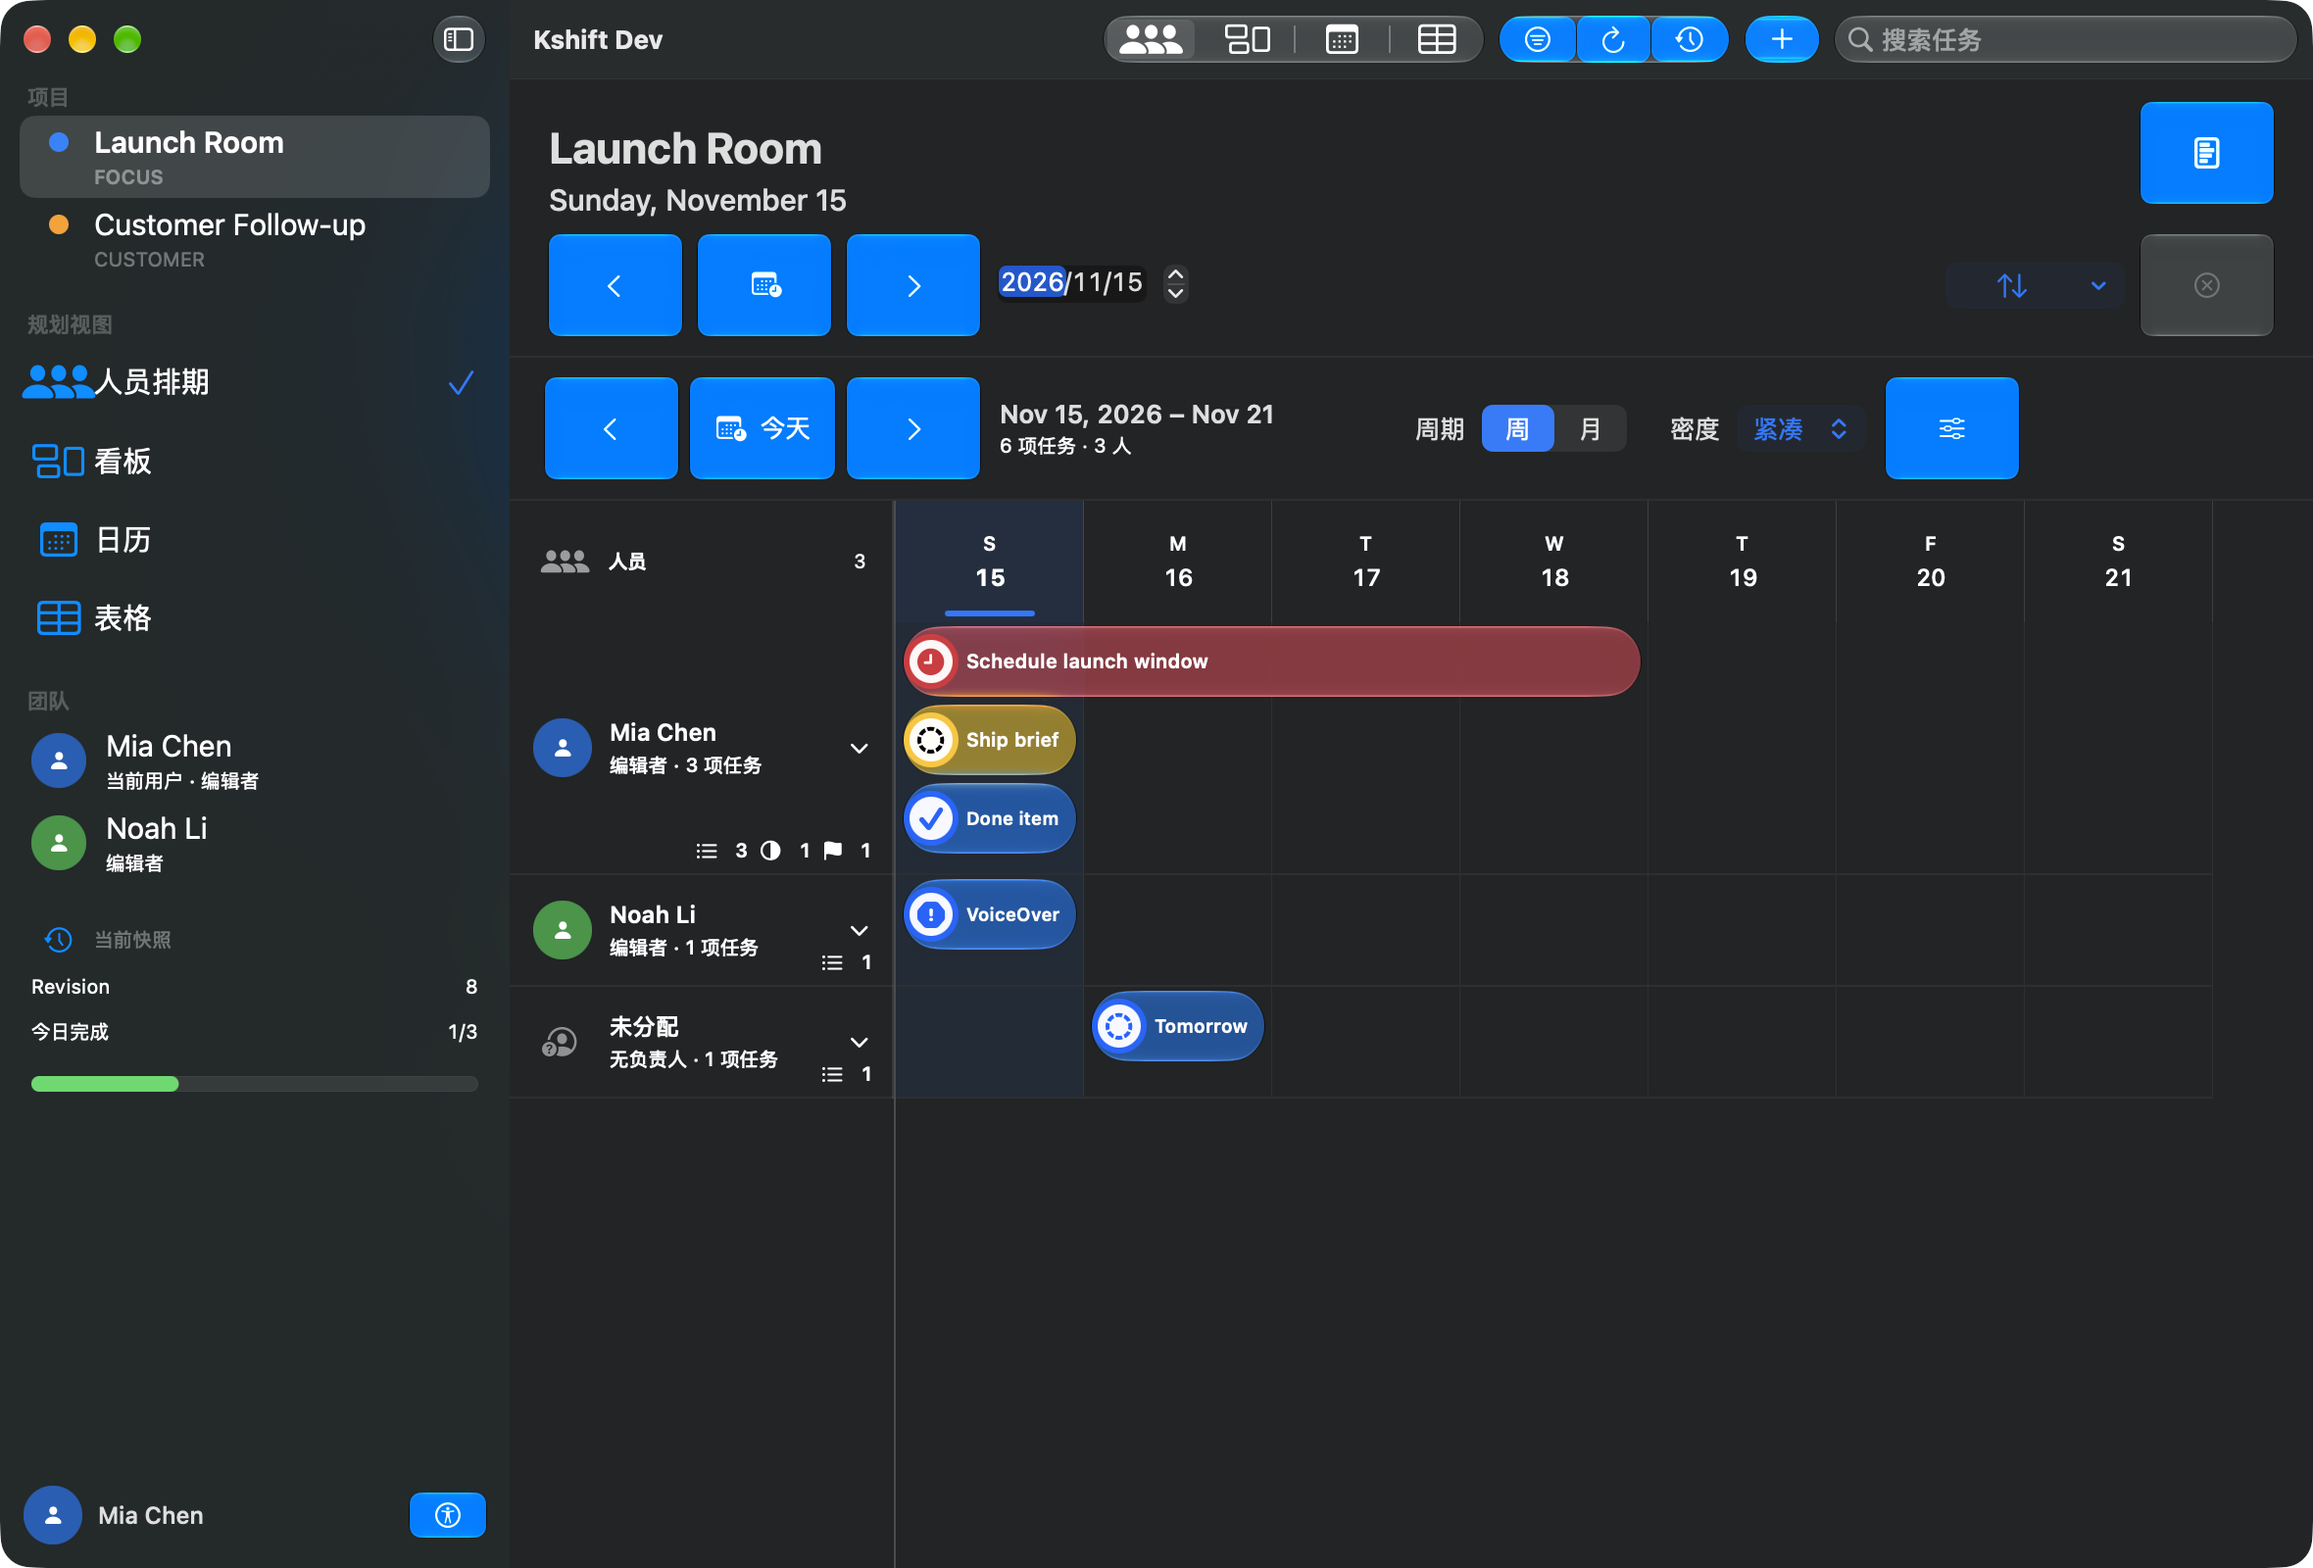
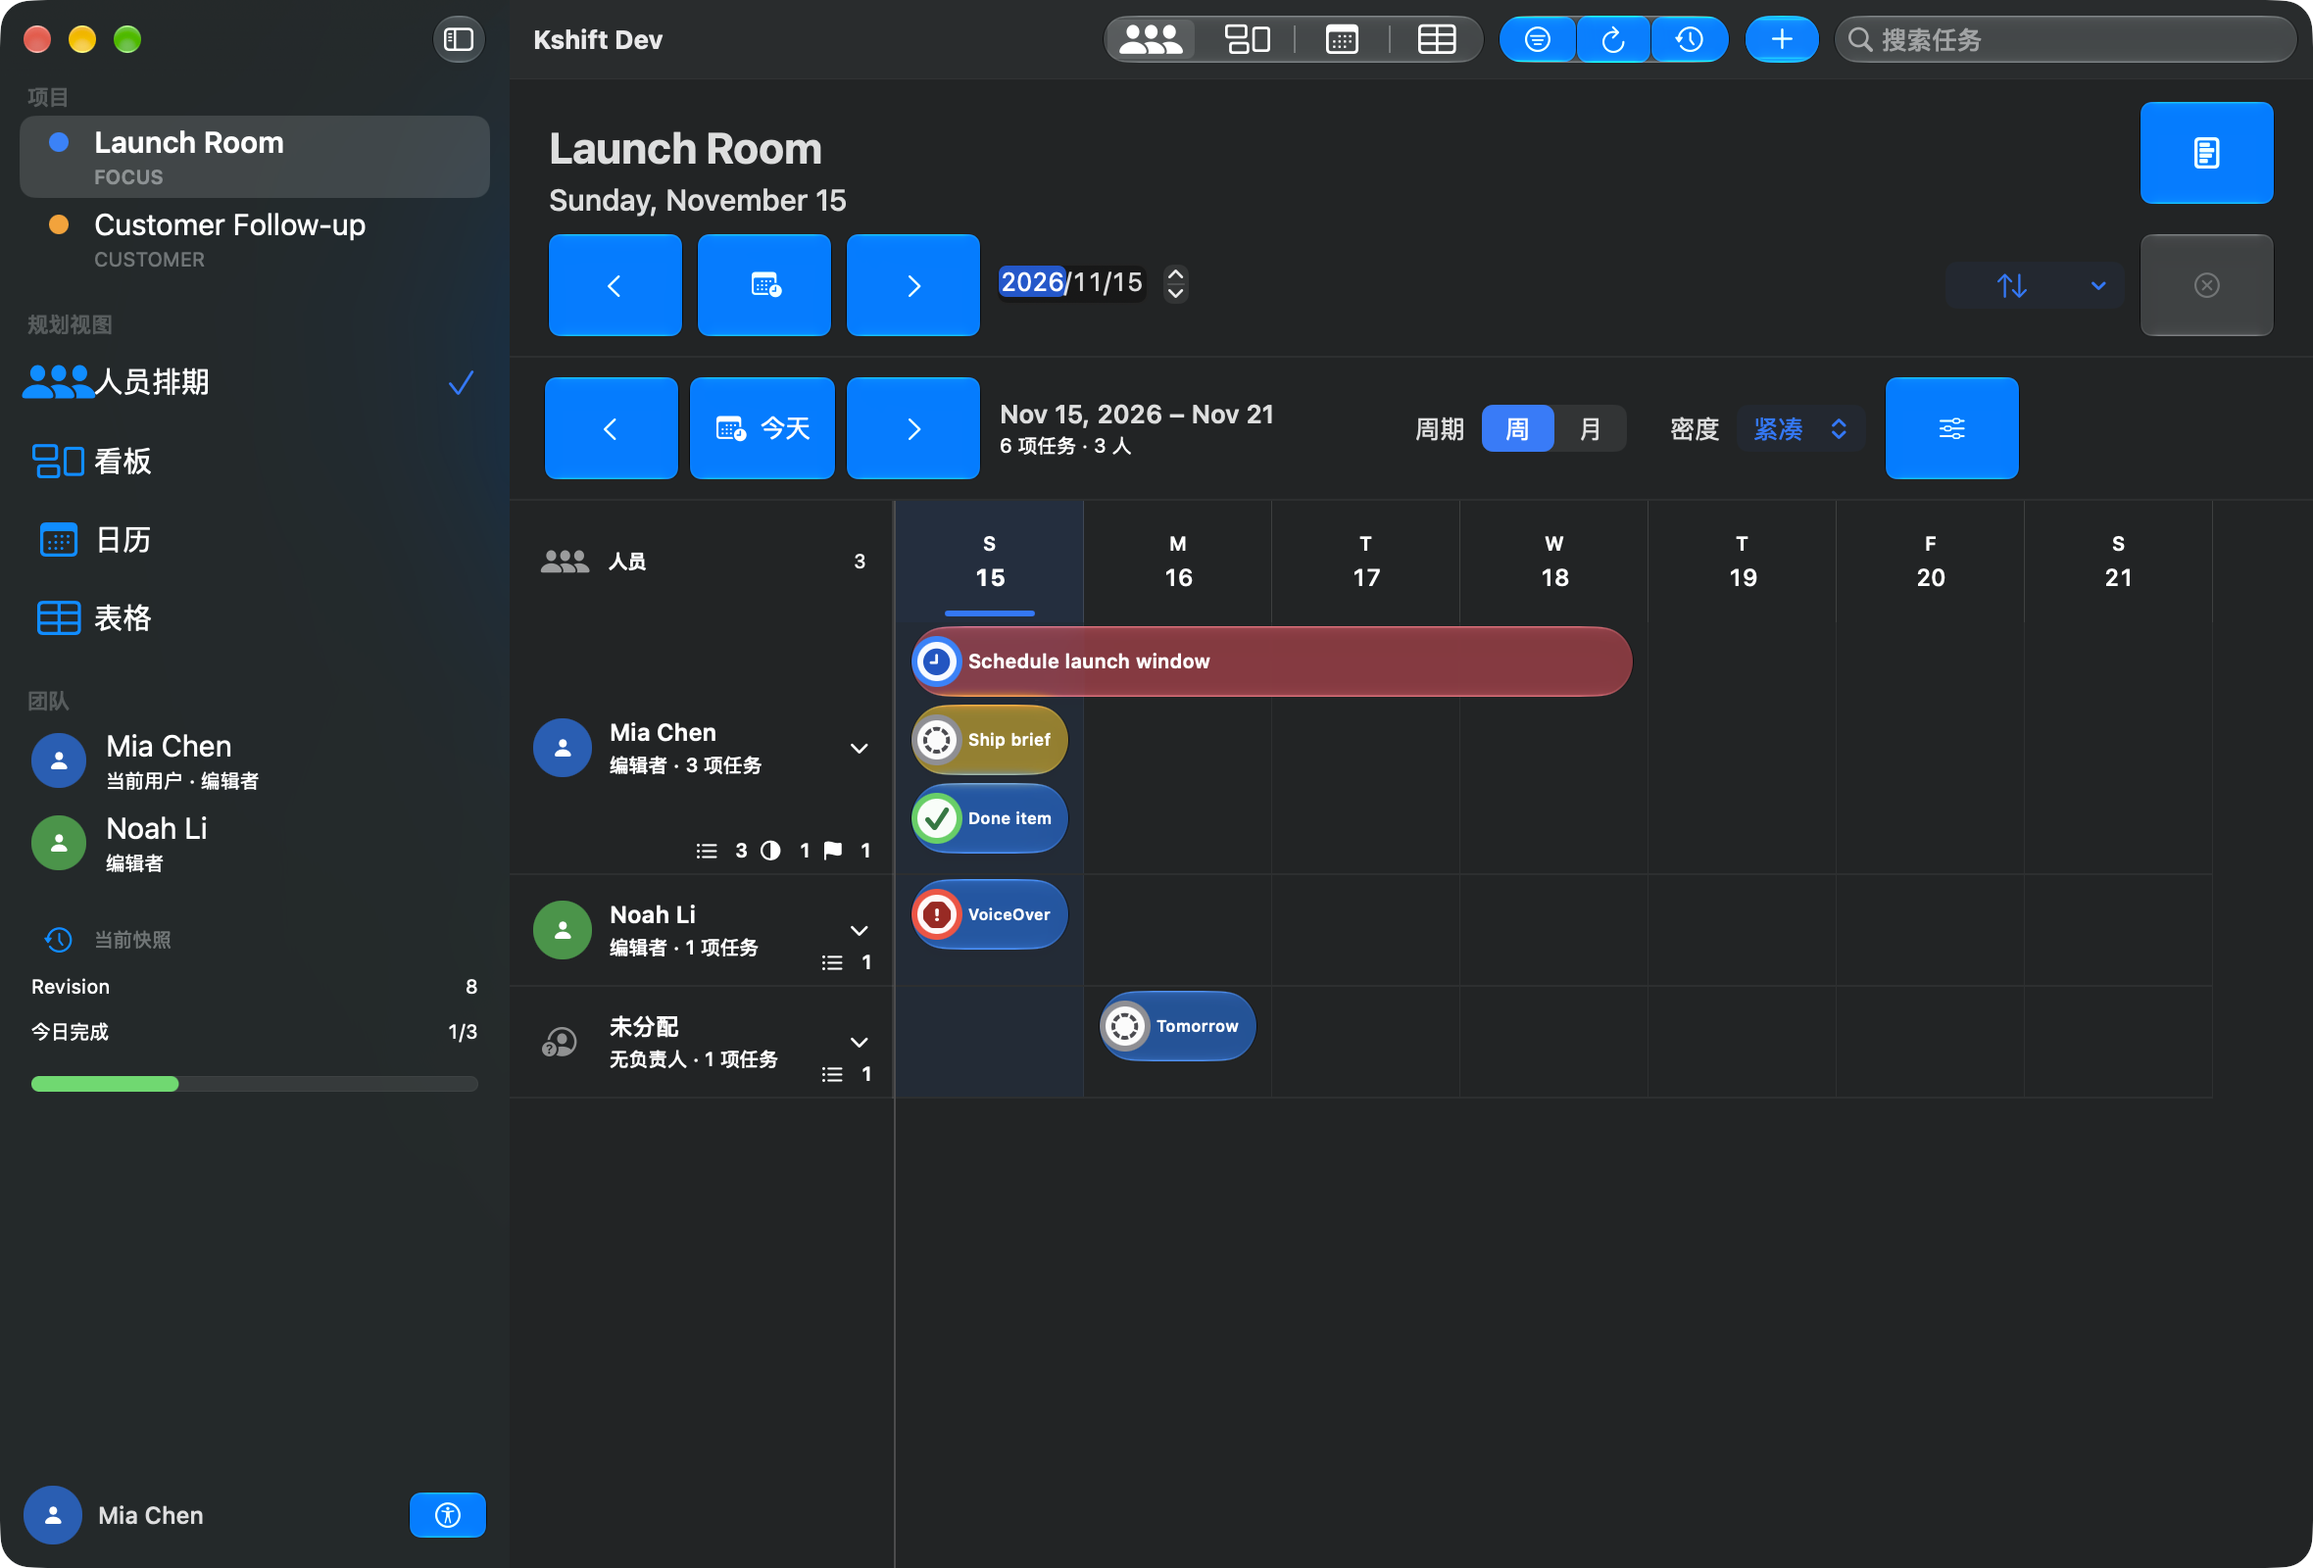
Add semantic status colors and spacing to task bars

diff --git a/Sources/KshiftUI/PeopleSchedule/PeopleScheduleView.swift b/Sources/KshiftUI/PeopleSchedule/PeopleScheduleView.swift
@@ -632,7 +632,7 @@ private struct CompactScheduleTaskCapsule: View {
     }
 
     private var statusBadge: some View {
-        ScheduleTaskStatusBadge(status: task.status, priority: task.priority)
+        ScheduleTaskStatusBadge(status: task.status)
     }
 }
 
@@ -1029,7 +1029,7 @@ private struct PeopleScheduleTaskCapsule: View {
                             .foregroundStyle(.primary)
                             .lineLimit(1)
                             .truncationMode(.tail)
-                            .minimumScaleFactor(0.88)
+                            .minimumScaleFactor(0.78)
                             .allowsTightening(true)
                             .frame(
                                 width: PeopleScheduleLayout.clippedTitleWidth(
@@ -1098,7 +1098,7 @@ private struct PeopleScheduleTaskCapsule: View {
     }
 
     private var statusBadge: some View {
-        ScheduleTaskStatusBadge(status: task.status, priority: task.priority)
+        ScheduleTaskStatusBadge(status: task.status)
     }
 
     private func resizeHandle(edge: ScheduleResizeEdge) -> some View {
@@ -1254,23 +1254,18 @@ private struct PeopleScheduleSettingsPopover: View {
 }
 
 private enum ScheduleTaskMetrics {
-    static let horizontalInset: CGFloat = 4
+    static let horizontalInset: CGFloat = 8
     static let visualHeight: CGFloat = 36
     static let hitHeight: CGFloat = 44
-    static let statusLeadingInset: CGFloat = 2
-    static let contentSpacing: CGFloat = 4
-    static let trailingInset: CGFloat = 6
-    static let statusFrame: CGFloat = 28
+    static let statusLeadingInset: CGFloat = 4
+    static let contentSpacing: CGFloat = 3
+    static let trailingInset: CGFloat = 3
+    static let statusFrame: CGFloat = 26
     static let contentLeading: CGFloat = statusFrame + contentSpacing
 }
 
 private struct ScheduleTaskStatusBadge: View {
     let status: TaskStatus
-    let priority: TaskPriority
-
-    private var palette: SchedulePriorityPalette {
-        SchedulePriorityPalette(priority: priority)
-    }
 
     private var symbol: String {
         switch status {
@@ -1281,18 +1276,35 @@ private struct ScheduleTaskStatusBadge: View {
         }
     }
 
+    private var accent: Color {
+        switch status {
+        case .todo: Color(hex: "#8E8E93")
+        case .inProgress: Color(hex: "#0A84FF")
+        case .blocked: Color(hex: "#FF453A")
+        case .done: Color(hex: "#30D158")
+        }
+    }
+
+    private var glyph: Color {
+        switch status {
+        case .todo: Color(hex: "#4B4B50")
+        case .inProgress: Color(hex: "#0057C8")
+        case .blocked: Color(hex: "#A61B1B")
+        case .done: Color(hex: "#0F7A3D")
+        }
+    }
+
     var body: some View {
         ZStack {
-            Circle().fill(palette.fill)
+            Circle().fill(accent)
             Circle()
                 .fill(Color.white.opacity(0.96))
                 .padding(3)
             Image(systemName: symbol)
                 .font(.system(size: 13, weight: .heavy))
                 .symbolRenderingMode(.monochrome)
-                .foregroundStyle(palette.statusGlyph)
+                .foregroundStyle(glyph)
         }
-        .frame(width: 28, height: 28)
         .frame(width: ScheduleTaskMetrics.statusFrame, height: ScheduleTaskMetrics.statusFrame)
         .allowsHitTesting(false)
         .accessibilityHidden(true)
@@ -1315,13 +1327,6 @@ private struct SchedulePriorityPalette {
         switch priority {
         case .high: .black
         default: .white
-        }
-    }
-
-    var statusGlyph: Color {
-        switch priority {
-        case .high: .black
-        default: fill
         }
     }
 }

diff --git a/docs/evidence/people-schedule/glass-task-bar/README.md b/docs/evidence/people-schedule/glass-task-bar/README.md
@@ -27,27 +27,30 @@ description: 记录人员排期任务条使用原生染色 Liquid Glass、明亮
 - Dark Mode 使用优先级颜色作为 tint，opacity 为 `0.45`。
 - Desktop 任务条和 Mobile 任务条分别使用一个 `GlassEffectContainer` 分组相邻 glass effect。
 - 任务条视觉高度为 36pt，完整交互区域为 44pt。
-- 日期 slice 使用统一的 4pt 水平 inset，任务条与日期边界保持同一左基线。
+- 日期 slice 使用统一的 8pt 水平 inset。任务条保留日期间距，不贴边绘制。
 - 标题使用任务条剩余宽度、tail truncation 和胶囊边界 clipping。标题不得绘制到胶囊外部。
 - Desktop 使用人员×日期时间轴。Mobile 使用按人员分组的纵向列表。
 - 桌面紧凑、标准和宽松密度的任务行间距分别为 40pt、48pt 和 56pt。
 - 状态控件位于任务条前端。状态选择继续使用原生 `Menu`。
-- 状态徽章使用 28pt 外框、3pt 优先级色环、白色中性内盘和 `13pt` heavy 符号。
-- `todo` 使用 `circle.dashed`。`inProgress` 使用 `clock.fill`。`blocked` 使用 `exclamationmark.octagon.fill`。`done` 使用 `checkmark`。
+- 状态徽章使用 26pt 外框、3pt 状态语义色环、白色中性内盘和 `13pt` heavy 符号。
+- `todo` 使用 `circle.dashed` 和灰色。
+- `inProgress` 使用 `clock.fill` 和蓝色。
+- `blocked` 使用 `exclamationmark.octagon.fill` 和红色。
+- `done` 使用 `checkmark` 和绿色；accent 为 `#30D158`，glyph 为 `#0F7A3D`。
 - 状态菜单保持 44pt 触控区域。
-- 优先级使用明亮色环和 task bar tint：P0 使用 `#D92D3A`，P1 使用 `#FFC400`，P2 使用 `#0066FF`，P3 使用 `#5F6368`。
+- 优先级继续由 task bar tint 表达：P0 使用 `#D92D3A`，P1 使用 `#FFC400`，P2 使用 `#0066FF`，P3 使用 `#5F6368`。
 - 禁止纯黑任务条背景、自绘玻璃、渐变、模糊和阴影。
 
 ## 视觉证据
 
-截图使用固定日期 `2026-11-15` 和 Demo 数据。截图显示 P0、P1、P2 任务条在 Light Mode 和 Dark Mode 中保留优先级颜色、玻璃高光和单行紧凑布局。任务条左边缘对齐日期网格；单日标题完整显示或被 tail truncation 裁切；状态符号使用白芯高对比徽章。
+截图使用固定日期 `2026-11-15` 和 Demo 数据。截图显示 P0、P1、P2 任务条在 Light Mode 和 Dark Mode 中保留优先级颜色、玻璃高光和单行紧凑布局。任务条保留统一的日期间距，不贴边绘制；单日标题完整显示或被 tail truncation 裁切；状态符号使用白芯高对比徽章，完成状态为绿色。
 
 | 文件 | 环境 | 内容 | SHA-256 |
 | --- | --- | --- | --- |
[8 lines of base64/hex data omitted]
 
 旧文件 `macos-task-bar-2026-11-14.png` 和 `ios-task-bar-2026-11-14.png` 是上一版 `.buttonStyle(.glass)` 候选。它们不表示最终视觉结论。
 

diff --git a/docs/specs/ui.md b/docs/specs/ui.md
@@ -130,7 +130,7 @@ flowchart TB
 - `UI-PPL-003`：人员行必须显示头像、姓名、角色、任务数、进行中数量、P0 数量和折叠按钮。
 - `UI-PPL-004`：人员列默认宽度为 `196pt`。日期列宽度必须限制在 `96pt` 至 `360pt`。
 - `UI-PPL-005`：密度必须包含紧凑、标准和宽松。默认密度为紧凑。
-- `UI-PPL-006`：任务条必须使用 SwiftUI `Button`、`.buttonStyle(.plain)` 和原生 `.glassEffect(.regular.tint(...).interactive(), in: Capsule(style: .continuous))`。Light Mode 的 tint opacity 必须为 `0.28`。Dark Mode 的 tint opacity 必须为 `0.45`。任务条使用 36pt 视觉高度和单行标题。日期 slice 的水平 inset 必须为 4pt。标题宽度必须按任务条剩余宽度计算，使用 tail truncation，并 clip 到胶囊边界。紧凑、标准和宽松密度的任务行间距分别为 40pt、48pt 和 56pt。禁止把 `.buttonStyle(.glass)` 用作最终任务条。禁止纯黑背景、自绘玻璃、渐变、模糊和阴影。P0 徽章使用 `#D92D3A`，P1 徽章使用 `#FFC400`，P2 徽章使用 `#0066FF`，P3 徽章使用 `#5F6368`。结构和标题必须保持 WCAG AA 对比度。
+- `UI-PPL-006`：任务条必须使用 SwiftUI `Button`、`.buttonStyle(.plain)` 和原生 `.glassEffect(.regular.tint(...).interactive(), in: Capsule(style: .continuous))`。Light Mode 的 tint opacity 必须为 `0.28`。Dark Mode 的 tint opacity 必须为 `0.45`。任务条使用 36pt 视觉高度和单行标题。日期 slice 的水平 inset 必须为 8pt。标题宽度必须按任务条剩余宽度计算，使用 tail truncation，并 clip 到胶囊边界。紧凑、标准和宽松密度的任务行间距分别为 40pt、48pt 和 56pt。禁止把 `.buttonStyle(.glass)` 用作最终任务条。禁止纯黑背景、自绘玻璃、渐变、模糊和阴影。P0 徽章使用 `#D92D3A`，P1 徽章使用 `#FFC400`，P2 徽章使用 `#0066FF`，P3 徽章使用 `#5F6368`。结构和标题必须保持 WCAG AA 对比度。
 - `UI-PPL-007`：已完成任务使用完成状态图标表达。禁止降低整条任务条的文本对比度。状态控件使用原生菜单显示状态文字和图标。悬停不得自动打开状态菜单。
 - `UI-PPL-008`：任务泳道必须避免重叠。任务排序先使用优先级，再使用状态权重。
 - `UI-PPL-009`：横向裁切任务必须把标题吸附到视口可见边缘。完整可见任务必须把标题放回任务起点。
@@ -141,7 +141,7 @@ flowchart TB
 - `UI-PPL-014`：人员排期必须提供网格语义、图标按钮标签、键盘焦点、悬停预览和 Reduce Motion 行为。
 - `UI-PPL-015`：`compact` 水平尺寸类必须使用按人员分组的纵向任务列表。任务条必须使用 UI-PPL-006 的全宽原生染色玻璃、`Capsule(style: .continuous)` 和单行标题。常规水平尺寸类继续使用人员×日期时间轴。
 - `UI-PPL-016`：人员排期模式不得显示重复的 `SummaryStrip`。任务数量显示在排期工具栏和人员分组标题中。
-- `UI-PPL-017`：任务状态徽章必须使用 28pt 外框、3pt 优先级色环、白色中性内盘和 `13pt` heavy 状态符号。`todo` 使用 `circle.dashed`，`inProgress` 使用 `clock.fill`，`blocked` 使用 `exclamationmark.octagon.fill`，`done` 使用 `checkmark`。状态菜单保持 44pt 触控区域。
+- `UI-PPL-017`：任务状态徽章必须使用 26pt 外框、3pt 状态语义色环、白色中性内盘和 `13pt` heavy 状态符号。`todo` 使用 `circle.dashed` 和 `#8E8E93`/`#4B4B50`。`inProgress` 使用 `clock.fill` 和 `#0A84FF`/`#0057C8`。`blocked` 使用 `exclamationmark.octagon.fill` 和 `#FF453A`/`#A61B1B`。`done` 使用 `checkmark` 和 `#30D158`/`#0F7A3D`。优先级继续由 task bar tint 表达。状态菜单保持 44pt 触控区域。
 
 ## 8. 关联合同
 
